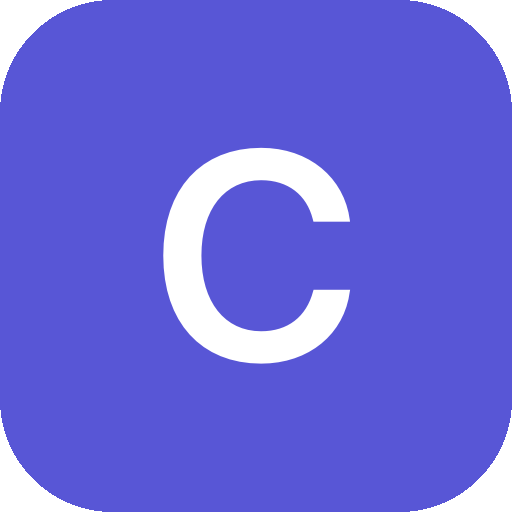
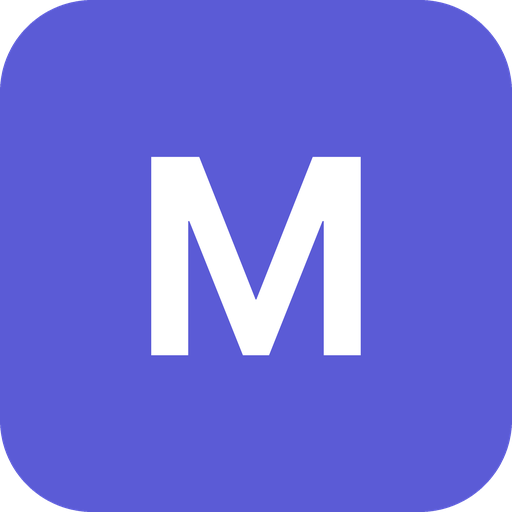
Rebrand Comix Reader to Manga Reader
Update page title, manifest name, and all app icons/favicons.

diff --git a/packages/app/src/routes/+layout.svelte b/packages/app/src/routes/+layout.svelte
@@ -12,7 +12,7 @@
 </script>
 
 <svelte:head>
-    <title>Comix Reader</title>
+    <title>Manga Reader</title>
 </svelte:head>
 
 <div class="safe-area">
